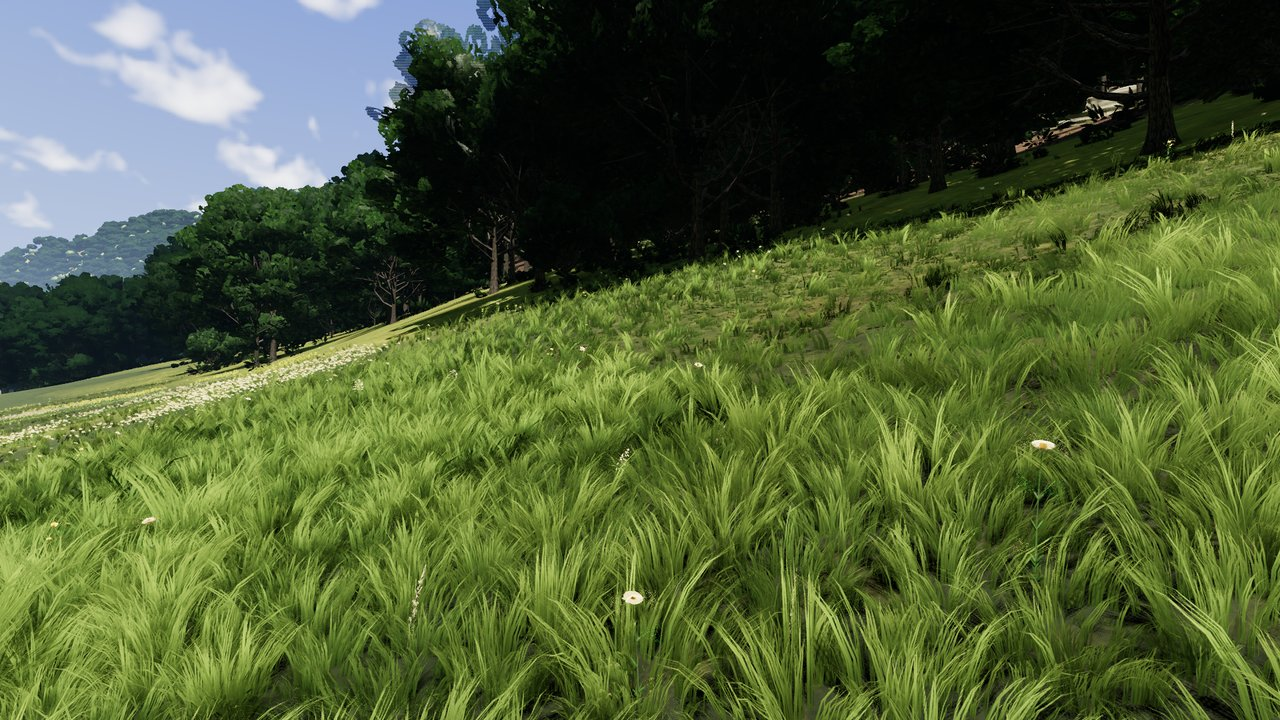
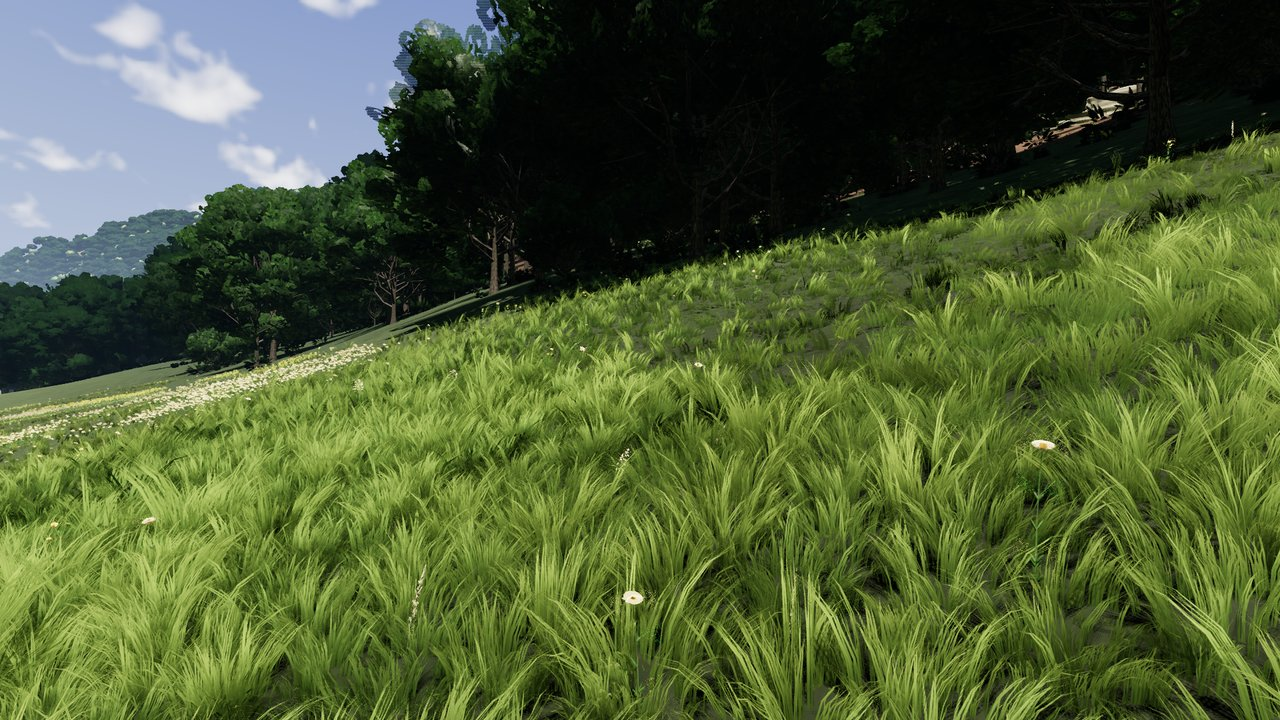
NoonValley r54 round 3: dark turf on the slopes, darker wood undergrowth, cheaper groundcover, greyer sky

diff --git a/crates/misty_editor/src/sample_noon_valley.rs b/crates/misty_editor/src/sample_noon_valley.rs
@@ -67,8 +67,6 @@ fn with_leaves(mut t: TreeAsset, name: &str) -> TreeAsset {
     t.leaf_translucency = nv_texture(&format!("{name}Translucency"));
     t
 }
-// The sample's hill turf.
-const TURF: &str = "Assets/Textures/Terrain/Meadow.png";
 
 /// 4 km of valley (4 m between height samples, like MeadowDemo).
 const SIZE: Vec3 = Vec3::new(4096.0, 1000.0, 4096.0);
@@ -405,12 +403,12 @@ fn forest_herbs(d: &TerrainData) -> DetailLayer {
         .collect();
     DetailLayer {
         name: "Forest Herbs".into(),
-        density: 90.0,
-        height: [0.1, 0.26],
-        width: 0.09,
-        bend: 1.2,
+        density: 45.0,
+        height: [0.08, 0.2],
+        width: 0.15,
+        bend: 1.4,
         dryness: 0.0,
-        tint: -0.55,
+        tint: -0.65,
         seed_heads: 0.0,
         map,
         ..DetailLayer::grass("Forest Herbs")
@@ -535,7 +533,7 @@ fn limestone() -> [RgbaImage; 3] {
             let moss = smooth(0.68, 0.8, tile_fbm(u, v, 7, 3, 117)) * smooth(0.6, 0.95, bed);
             // (Grey, about half as bright as fresh limestone: weathered faces seen from the
             // meadow read mid-grey through the haze, not white.)
-            let mut c = [0.034, 0.031, 0.022].map(|k| {
+            let mut c = [0.038, 0.032, 0.02].map(|k| {
                 k * (0.84 + 0.22 * bed_tone)
                     * (0.78 + 0.4 * blocks)
                     * (0.9 + 0.2 * lumps)
@@ -761,9 +759,9 @@ fn tree_assets() -> Vec<(String, TreeAsset)> {
                 twigs: 2,
                 leaf_density: 2.4,
                 leaf_size: 0.62,
-                leaf_color: [0.52, 0.55, 0.46],
+                leaf_color: [0.45, 0.48, 0.38],
                 leaf_variation: 0.35,
-                translucency: 0.5,
+                translucency: 0.35,
                 crown_shading: 0.85,
                 wind: TreeWind {
                     trunk_bend: 0.2,
@@ -785,16 +783,18 @@ fn tree_assets() -> Vec<(String, TreeAsset)> {
                 trunk_radius: 0.02,
                 leader: 0.0,
                 trunk_bend: 0.0,
-                branches: 10,
+                // (Fewer, larger leaves: the same cover for about half the triangles, which
+                // keeps the wood's carpets and their shadows affordable.)
+                branches: 8,
                 branch_angle: 75.0,
                 branch_curve: -0.3,
                 twigs: 3,
-                leaf_density: 2.6,
-                leaf_size: 0.38,
+                leaf_density: 1.7,
+                leaf_size: 0.48,
                 // Matte leaves (the atlas holds their own dark greens): little light through.
-                leaf_color: [0.56, 0.58, 0.5],
+                leaf_color: [0.46, 0.48, 0.4],
                 leaf_variation: 0.45,
-                translucency: 0.25,
+                translucency: 0.1,
                 crown_shading: 0.6,
                 wind: TreeWind {
                     trunk_bend: 0.1,
@@ -1170,8 +1170,11 @@ fn terrain_data() -> TerrainData {
         },
         TerrainLayer {
             name: "Hill Turf".into(),
-            diffuse: Some(TURF.into()),
-            tile_size: [6.0, 6.0],
+            // (The meadow's dark turf, larger: the sample's turf read pale on the slopes.)
+            diffuse: Some(TURF_GROUND.into()),
+            normal_map: Some(TURF_GROUND_NORMAL.into()),
+            height_map: Some(TURF_GROUND_HEIGHT.into()),
+            tile_size: [5.0, 5.0],
             rules: rules([22.0, 48.0], 1),
             ..Default::default()
         },
@@ -1397,7 +1400,7 @@ fn volume() -> PostProcessVolume {
     let c = &mut v.clouds;
     c.active = true;
     CloudPreset::Sparse.apply(c);
-    c.coverage = 0.33;
+    c.coverage = 0.325;
     c.density = 0.7;
     c.shape = 0.6;
     c.altitude = 1400.0;
@@ -1460,7 +1463,7 @@ fn demo_scene(d: &TerrainData) -> Scene {
     rs.skybox.sun_size = 0.04;
     rs.skybox.atmosphere_thickness = 1.0;
     // A deep blue overhead, paler and hazier towards the horizon.
-    rs.skybox.sky_tint = [0.15, 0.27, 0.42];
+    rs.skybox.sky_tint = [0.16, 0.24, 0.36];
     // (Misty GI is off: its crown proxies leave the open wood's floor without any sky light;
     // the Forest Floor layer's Occlusion sets the shade instead.)
     rs.realtime_gi = false;
@@ -1637,7 +1640,6 @@ fn noon_valley_matches_its_generator() {
         FOREST_FLOOR,
         FOREST_FLOOR_NORMAL,
         FOREST_FLOOR_HEIGHT,
-        TURF,
     ] {
         assert!(root.join(rel).exists(), "{rel}");
     }

diff --git a/docs/pending/r54-noon-look.md b/docs/pending/r54-noon-look.md
@@ -21,6 +21,7 @@ writes under `SampleProject/Assets/NoonValley/` and `Assets/Scenes/NoonValley.sc
 | d | – | 19.9 ms | carpets under the whole near forest: dropped |
 | f | 16.3 ms | 28.2 ms | open wood up to the hill's foot (machine loaded, CPU 23 ms): dropped |
 | j | 13.2 / 10.4 ms | 15.9 / 8.4 ms | round 2; CPU numbers inflated by other jobs' load |
+| m | 13.5 / 4.0 ms (parts 12.0) | 19.4 / 4.3 ms (parts 14.7) | round 3; base parts were 12.9 / 11.7: hero cheaper, inside +3 ms (groundcover shadows 3.5 vs 2.6, trees 2.3 vs 1.8, herbs 0.9) |
 
 ## Rounds
 
@@ -54,6 +55,32 @@ median: `inside` 0.019, `inside2` 0.047 (reference 0.028).
   (cheap cover for the bare floor in `inside`). Forest Haze box only behind the wood's edge.
   Tried and dropped: carpets under the whole near forest (+8 ms inside), the open wood up to
   the hill's foot (+12 ms).
+
+- **k–m (third commit):** Hill Turf uses the dark meadow turf too (5 m tile: the sample's
+  turf read pale yellow on the slopes and the cliff sites' rims); fern and groundcover leaves
+  darker and less translucent (inside2 less lime); herbs broader, lower, darker (45/m²,
+  0.15 m wide); sky tint 0.16/0.24/0.36 (sky top 127/147/191 → 126/143/182 with clouds in the
+  region, 93/113/159 without; reference 76/90/112); cloud coverage 0.325 (0.3 left the first
+  view empty; the cloud field's size is fixed, so they stay smaller and more numerous than
+  the reference's); limestone a little warmer. Groundcover recipe: 8 branches, leaf density
+  1.7 of 0.48 m leaves (was 10, 2.6 of 0.38): 15.0 → 13.5 M triangles inside.
+
+Numbers after m (reference / ours): meadow near 59/76/18 / 54/72/21, meadow mid 76/87/43 /
+71/84/37, far meadow 85/97/59 / ~108/120/75, hillside crowns 36/52/39 / 50/60/37. Forest
+lower-half luminance median `inside` 0.024, `inside2` 0.041 (reference 0.028).
+
+## Still differs (after m)
+
+- Cliffs: one continuous slab per site now, but it reads as a smooth grey-green patch, not
+  the reference's bright tan slabs with deep layered shadows; the site in the first view is
+  small and high (the hill is steeper and closer than the reference's).
+- Clouds: many small heaps; the reference has a few big soft ones (no cloud-size control in
+  the scene settings).
+- Sky and far hills still brighter and bluer than the (darker, greyer) reference.
+- `inside`: herbs read as short grass tufts on bare sunlit litter, not broad leaves;
+  `inside2` greener and brighter than the reference's dark olive; trunks and crowns lack the
+  reference's fine detail.
+- Inside GPU +3 ms over the start (parts 14.7 vs 11.7 ms).
 
 ## Still differs (after j)
 
